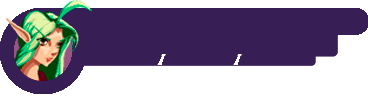
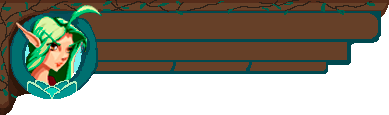
add: ui

diff --git a/game/src/UserInterface/UIPlayerBar.cpp b/game/src/UserInterface/UIPlayerBar.cpp
@@ -10,9 +10,9 @@ void UIPlayerBar::GroupStart()
 {
     LoadImage("res/img/UI/PlayerBar.png");
 
-    AddComponent(new UILifeBar(weak_from_this(), Vector2(52,8)));
-    AddComponent(new UIStaminaBar(weak_from_this(), Vector2(85,56)));
-    AddComponent(new UIManaBar(weak_from_this(), Vector2(83,34)));
+    AddComponent(new UILifeBar(weak_from_this(), Vector2(80,12)));
+    AddComponent(new UIStaminaBar(weak_from_this(), Vector2(96,62)));
+    AddComponent(new UIManaBar(weak_from_this(), Vector2(97,39)));
 }
 
 
@@ -22,7 +22,7 @@ UILifeBar::UILifeBar(std::weak_ptr<UIComponent> ParentComponent, Vector2 Positio
 
 void UILifeBar::Start()
 {
-    LoadImage("res/img/UI/LifeBar.png");
+    LoadImage("res/img/UI/LifeBar65x12.png");
 }
 
 void UILifeBar::OnUpdate(Vector2 EventPos, float Dt)
@@ -46,7 +46,7 @@ UIStaminaBar::UIStaminaBar(std::weak_ptr<UIComponent> ParentComponent, Vector2 P
 
 void UIStaminaBar::Start()
 {
-    LoadImage("res/img/UI/DashBar.png");    
+    LoadImage("res/img/UI/DashBar97x62.png");    
 }
 
 void UIStaminaBar::OnUpdate(Vector2 EventPos, float Dt)
@@ -68,7 +68,7 @@ UIManaBar::UIManaBar(std::weak_ptr<UIComponent> ParentComponent, Vector2 Positio
 
 void UIManaBar::Start()
 {
-    LoadImage("res/img/UI/ManaBar.png");
+    LoadImage("res/img/UI/ManaBar96x39.png");
 }
 
 void UIManaBar::OnUpdate(Vector2 EventPos, float Dt)

diff --git a/game/src/Scene/MainGame.cpp b/game/src/Scene/MainGame.cpp
@@ -178,7 +178,7 @@ void MainMap::LoadAssets()
         []()
         {
             Color NumColor("#ffffff");
-            std::string Prompt =  "Vila sem nome";
+            std::string Prompt =  "Vila da planície";
             GameObject* Place = new GameObject();
             Place->Depth = DepthMode::Foreground;
             Text* Txt = new Text(*Place,"./res/ttf/alagard.ttf", 50, TextStyle::BLENDED, Prompt, NumColor);
@@ -221,7 +221,7 @@ void MainMap::LoadAssets()
         []()
         {
             Color NumColor("#ffffff");
-            std::string Prompt =  "Floresta foda";
+            std::string Prompt =  "Floresta da Clareira";
             GameObject* Place = new GameObject();
             Place->Depth = DepthMode::Foreground;
             Text* Txt = new Text(*Place,"./res/ttf/alagard.ttf", 50, TextStyle::BLENDED, Prompt, NumColor);
@@ -264,7 +264,7 @@ void MainMap::LoadAssets()
         []()
         {
             Color NumColor("#ffffff");
-            std::string Prompt =  "Fungo no meu cerebro";
+            std::string Prompt =  "Fungesta";
             GameObject* Place = new GameObject();
             Place->Depth = DepthMode::Foreground;
             Text* Txt = new Text(*Place,"./res/ttf/alagard.ttf", 50, TextStyle::BLENDED, Prompt, NumColor);

diff --git a/game/src/TestScene.cpp b/game/src/TestScene.cpp
@@ -176,7 +176,7 @@ void Test01::LoadAssets()
         []()
         {
             Color NumColor("#ffffff");
-            std::string Prompt =  "Vila sem nome";
+            std::string Prompt =  "Vila da planície";
             GameObject* Place = new GameObject();
             Place->Depth = DepthMode::Foreground;
             Text* Txt = new Text(*Place,"./res/ttf/alagard.ttf", 50, TextStyle::BLENDED, Prompt, NumColor);
@@ -216,7 +216,7 @@ void Test01::LoadAssets()
         []()
         {
             Color NumColor("#ffffff");
-            std::string Prompt =  "Floresta foda";
+            std::string Prompt =  "Floresta da Clareira";
             GameObject* Place = new GameObject();
             Place->Depth = DepthMode::Foreground;
             Text* Txt = new Text(*Place,"./res/ttf/alagard.ttf", 50, TextStyle::BLENDED, Prompt, NumColor);
@@ -255,7 +255,7 @@ void Test01::LoadAssets()
         []()
         {
             Color NumColor("#ffffff");
-            std::string Prompt =  "Fungo no meu cerebro";
+            std::string Prompt =  "Fungesta";
             GameObject* Place = new GameObject();
             Place->Depth = DepthMode::Foreground;
             Text* Txt = new Text(*Place,"./res/ttf/alagard.ttf", 50, TextStyle::BLENDED, Prompt, NumColor);

diff --git a/game/src/UserInterface/UIController.cpp b/game/src/UserInterface/UIController.cpp
@@ -1,5 +1,5 @@
 #include "UserInterface/UIController.hpp"
-#include "UserInterface/UIBagMenu.hpp"
+#include "UserInterface/UIRightBar.hpp"
 #include "UserInterface/UIPlayerBar.hpp"
 #include "Core/Input.hpp"
 #include "Core/Camera.hpp"
@@ -24,8 +24,8 @@ UIController::~UIController(){
 }
 
 void UIController::Start(){
-    AddComponent(new UIBagButton({}, Vector2(1180,630)));
-    AddComponent(new UIPlayerBar({}, Vector2(40,40)));
+    AddComponent(new UIRightBar({}, Vector2(1000,620)));
+    AddComponent(new UIPlayerBar({}, Vector2(0,0)));
 }
 
 void UIController::Update(float Dt){

diff --git a/game/src/main.cpp b/game/src/main.cpp
@@ -13,7 +13,7 @@ int main (int argc, char** argv)
     // TitleScene* Begin = new TitleScene(); //Penguin
     // Test01* Begin = new Test01();//Tests
 
-    Engine::Instance("Give It Back!", 1280, 720, 1280, 720, false).Push(new MainMenu);
+    Engine::Instance("Give It Back!", 1280, 720, 1280, 720, true).Push(new MainMenu);
     // MainMap* Begin = new MainMap();
     // Engine::Instance("Give It Back!", 1280, 720, 1280, 720, false).Push(Begin);
     Engine::Instance().Run();

diff --git a/game/src/UserInterface/UIRightBar.cpp b/game/src/UserInterface/UIRightBar.cpp
@@ -1,0 +1,10 @@
+#include "UserInterface/UIRightBar.hpp"
+#include "UserInterface/UIBagMenu.hpp"
+
+UIRightBar::UIRightBar(std::weak_ptr<UIComponent> ParentComponent, Vector2 Position):UIGroupComponent(ParentComponent, Position){}
+
+void UIRightBar::GroupStart()
+{
+    LoadImage("res/img/UI/clicker.png");
+    // AddComponent(new UIBagButton({}, Vector2(1180,630)));
+}

diff --git a/game/include/UserInterface/UIRightBar.hpp b/game/include/UserInterface/UIRightBar.hpp
@@ -1,0 +1,12 @@
+#ifndef LICHEN_UI_RIGHT_BAR
+#define LICHEN_UI_RIGHT_BAR
+
+#include "UserInterface/UIComponent.hpp"
+
+class UIRightBar : public UIGroupComponent {
+public:
+    UIRightBar(std::weak_ptr<UIComponent> ParentComponent, Vector2 Position);
+    void GroupStart();
+};
+
+#endif

diff --git a/game/src/Enemy/Biagia.cpp b/game/src/Enemy/Biagia.cpp
@@ -21,7 +21,7 @@
 
 
 #define ENEMY_DEFAULT_INVULNERABILITY 0.4f
-#define MAX_SUMMONS 6
+#define MAX_SUMMONS 3
 #include "Enemy/EnemyFactory.hpp"
 
 
